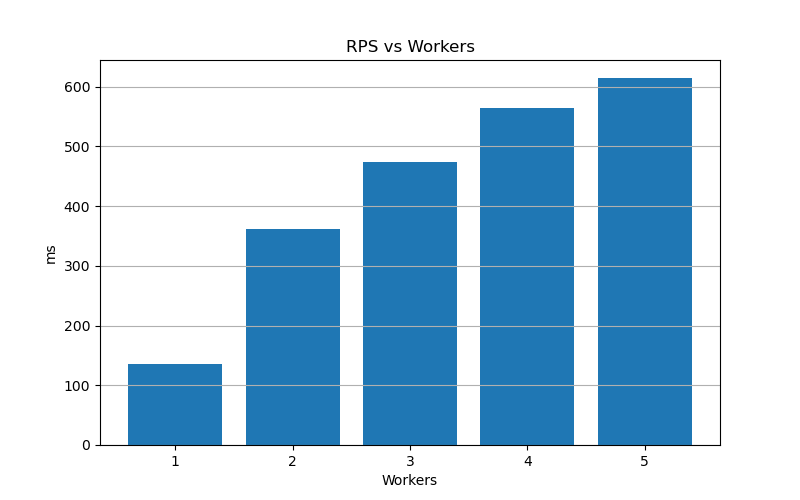
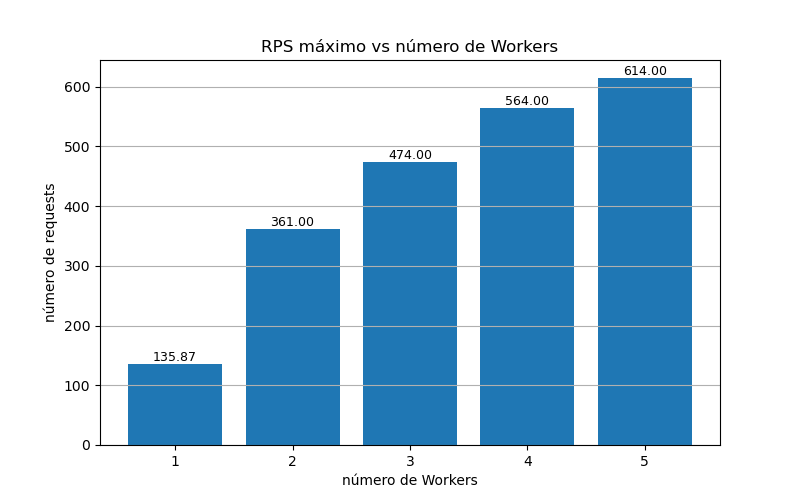
novo codigo para graficos do mom

diff --git a/graficos/graficos.py b/graficos/graficos.py
@@ -11,19 +11,41 @@ rpsResults  = [135.87 , 361 , 474 , 564, 614]
 
 datasets = {
     "RPS": rpsResults,
-    "avg Latency Test 1": avg_latency_test1,
-    "avg Latency Test 2": avg_latency_test2,
-    "avg Latency Test 3": avg_latency_test3,
-    "avg Latency Test 4": avg_latency_test4,
-    "avg Latency Test 5": avg_latency_test5,
+    "max 135 RPS": avg_latency_test1,
+    "max 361 RPS": avg_latency_test2,
+    "max 474 RPS": avg_latency_test3,
+    "max 564 RPS": avg_latency_test4,
+    "max 614 RPS": avg_latency_test5,
 }
 
 for name, data in datasets.items():
+    
     plt.figure(figsize=(8,5))
-    plt.bar(workers, data)
-    plt.xlabel("Workers")
-    plt.ylabel("ms")
-    plt.title(f"{name} vs Workers")
+    
+    bars = plt.bar(workers, data)
+
+    # --- ADICIONAR VALORES ACIMA DAS BARRAS ---
+    for bar in bars:
+        height = bar.get_height()
+        plt.text(
+            bar.get_x() + bar.get_width() / 2,
+            height,
+            f"{height:.2f}",
+            ha="center",
+            va="bottom",
+            fontsize=9
+        )
+    # ------------------------------------------
+
+    if name != "RPS":
+        plt.xlabel("número de Workers")
+        plt.ylabel("ms")
+        plt.title(f"Latência média vs Número de workers a {name}")
+    else:
+        plt.xlabel("número de Workers")
+        plt.ylabel("número de requests")
+        plt.title(f"RPS máximo vs número de Workers")
+
     plt.grid(axis="y")
-    plt.savefig(f"{name}")
-    #plt.show()
+    plt.savefig(f"{name}.png")   # salva como PNG certinho
+    # plt.show()

diff --git a/graficos/graficos1.py b/graficos/graficos1.py
@@ -1,0 +1,54 @@
+import matplotlib.pyplot as plt
+import numpy as np
+
+workers = ["1", "2", "3", "4", "5","6","7","8","9","10"]
+avg_latency = [10518.16,
+               6211.81,
+               2304.58,
+               87.67,
+               6.38,
+               5.46,
+               5.77,
+               5.82,
+               5.15,
+               5.68
+               ]
+
+avg_latency_log = np.log10(avg_latency)
+
+datasets = {
+    "avg": avg_latency,
+    "avglog": avg_latency_log,
+}
+
+for name, data in datasets.items():
+    
+    plt.figure(figsize=(8,5))
+    
+    bars = plt.bar(workers, data)
+
+    for bar in bars:
+        height = bar.get_height()
+        plt.text(
+            bar.get_x() + bar.get_width() / 2,
+            height,
+            f"{height:.2f}",
+            ha="center",
+            va="bottom",
+            fontsize=9
+        )
+
+        if name=="avglog":
+            plt.ylabel("Latência média log 10 (ms)")
+            plt.xlabel("número de Workers")
+            plt.title(f"Latência média vs Número de workers (log) ")
+        else:
+            plt.ylabel("Latência média (ms)")
+            plt.xlabel("número de Workers")
+            plt.title(f"Latência média vs Número de workers")
+            
+
+
+    plt.grid(axis="y")
+    plt.savefig(f"{name}.png")   # salva como PNG certinho
+    # plt.show()
